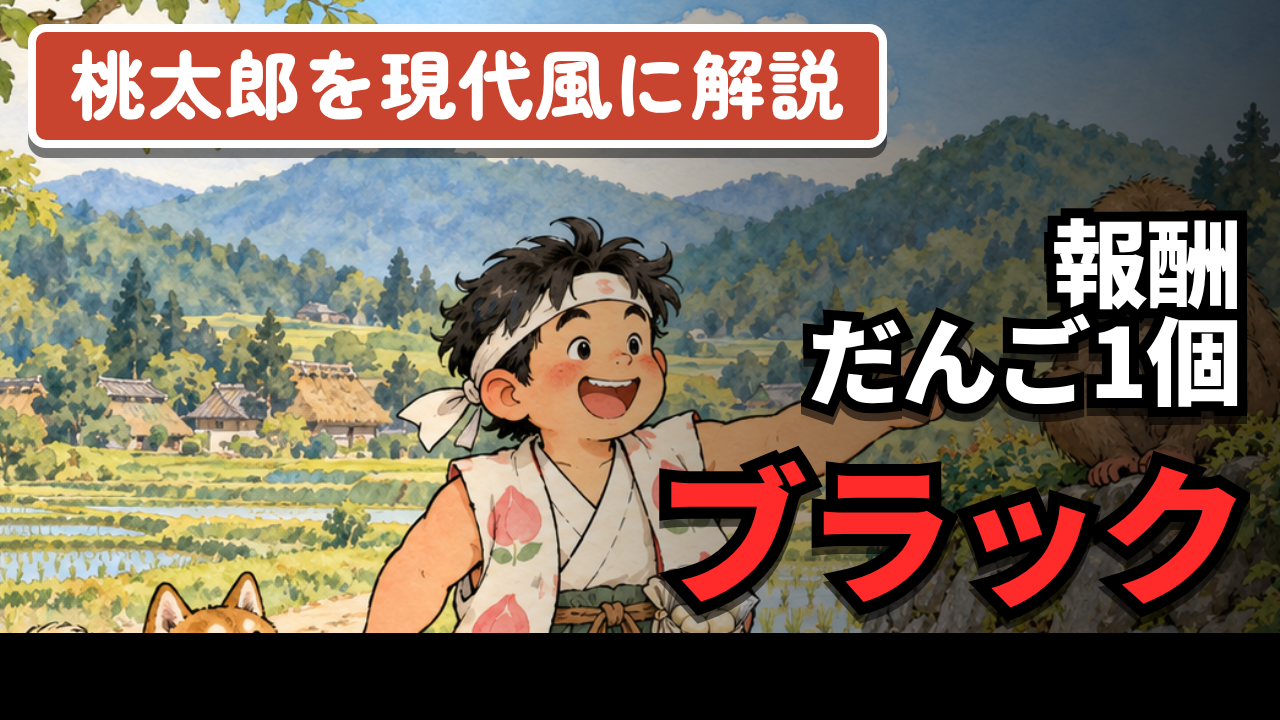
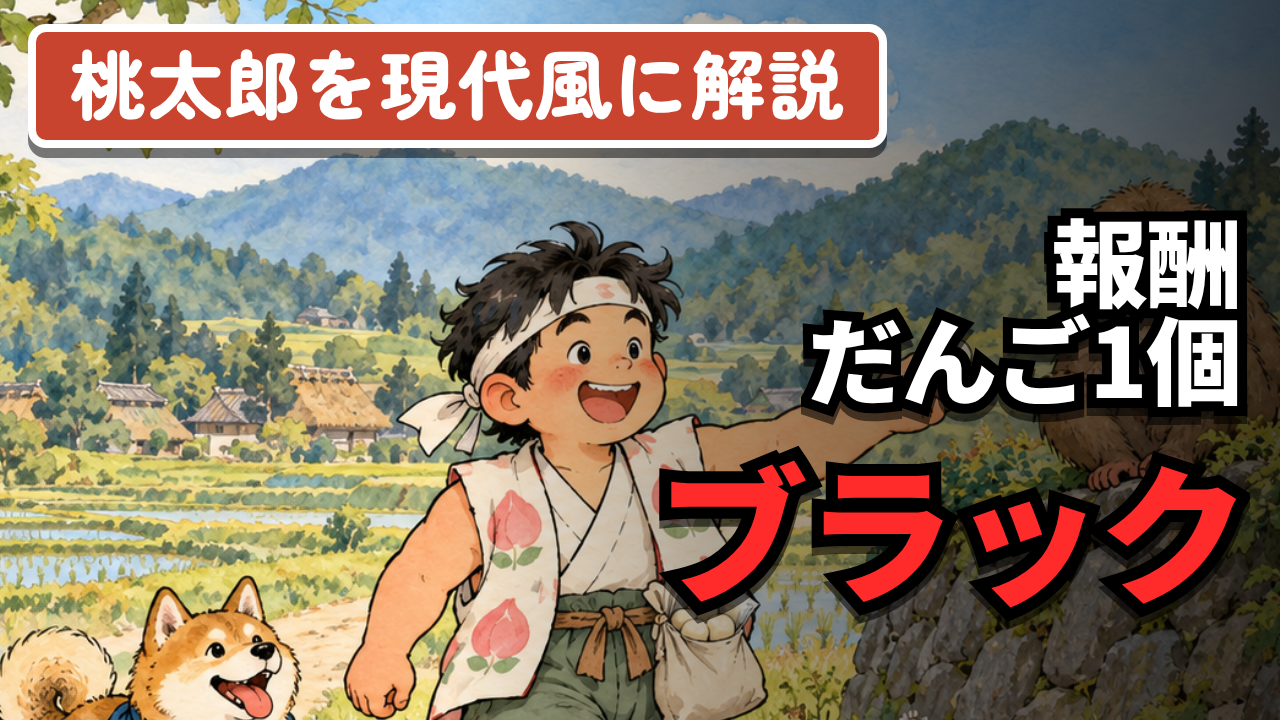
Momotaro thumbnails: fix bottom black band, B tagline in big red
Claude-Session: https://claude.ai/code/session_017i6jPSgVW93T5N66avXQym

diff --git a/shorts/series_mukashi/make_thumb.py b/shorts/series_mukashi/make_thumb.py
@@ -21,7 +21,7 @@ PAGE = """<!doctype html><html><head><meta charset="utf-8"><style>
 @font-face{font-family:Noto;font-weight:100 900;src:url("file://FONTDIR/NotoSansJP[wght].ttf")}
 @font-face{font-family:Maru;font-weight:900;src:url("file://FONTDIR/ZenMaruGothic-Black.ttf")}
 *{margin:0;padding:0;box-sizing:border-box}
-html,body{width:1280px;height:720px;overflow:hidden;background:#000}
+html,body{width:1280px;height:720px;overflow:hidden;background:#000}body{position:relative}
 .bg{position:absolute;inset:0;background:url("file://IMG") POS/ZOOM no-repeat}
 .shade{position:absolute;inset:0;background:SHADE}
 .t{position:absolute;font-family:Noto,sans-serif;font-weight:900;line-height:1.02;letter-spacing:-.02em;
@@ -45,7 +45,7 @@ T = {
               tag="桃太郎を現代風に解説",
               body='<div class="t w" style="--sw:20px;left:40px;top:200px;font-size:96px">桃太郎の桃</div>'
                    '<div class="t y" style="--sw:26px;left:30px;top:295px;font-size:190px">250kg</div>'
-                   '<div class="t w" style="--sw:16px;left:44px;top:540px;font-size:64px">おばあさん、持てません</div>'),
+                   '<div class="t r" style="--sw:20px;left:36px;top:518px;font-size:118px">持てるわけないｗｗｗ</div>'),
     "c": dict(img="scene_road.png", pos="30% 5%", zoom="160%",
               shade="linear-gradient(270deg,rgba(0,0,0,.72) 0%,rgba(0,0,0,.3) 45%,rgba(0,0,0,0) 65%)",
               tag="桃太郎を現代風に解説",
@@ -64,9 +64,12 @@ def render(key):
         f.write(html)
     out = os.path.join(OUT_DIR, f"thumb_{key}.png")
     subprocess.run([chrome(), "--headless=new", "--no-sandbox", "--disable-gpu", "--hide-scrollbars",
-                    "--force-device-scale-factor=1", "--window-size=1280,720", "--virtual-time-budget=3000",
+                    "--force-device-scale-factor=1", "--window-size=1280,900", "--virtual-time-budget=3000",
                     f"--screenshot={out}", "file://" + f.name], check=True, capture_output=True)
     os.unlink(f.name)
+    # 小さい窓だと表示領域が指定より狭くなり、下に黒い帯が残る。大きめの窓で描いて 1280x720 に切り抜く
+    from PIL import Image
+    Image.open(out).convert("RGB").crop((0, 0, 1280, 720)).save(out)
     print("wrote", os.path.relpath(out, HERE))
 
 
